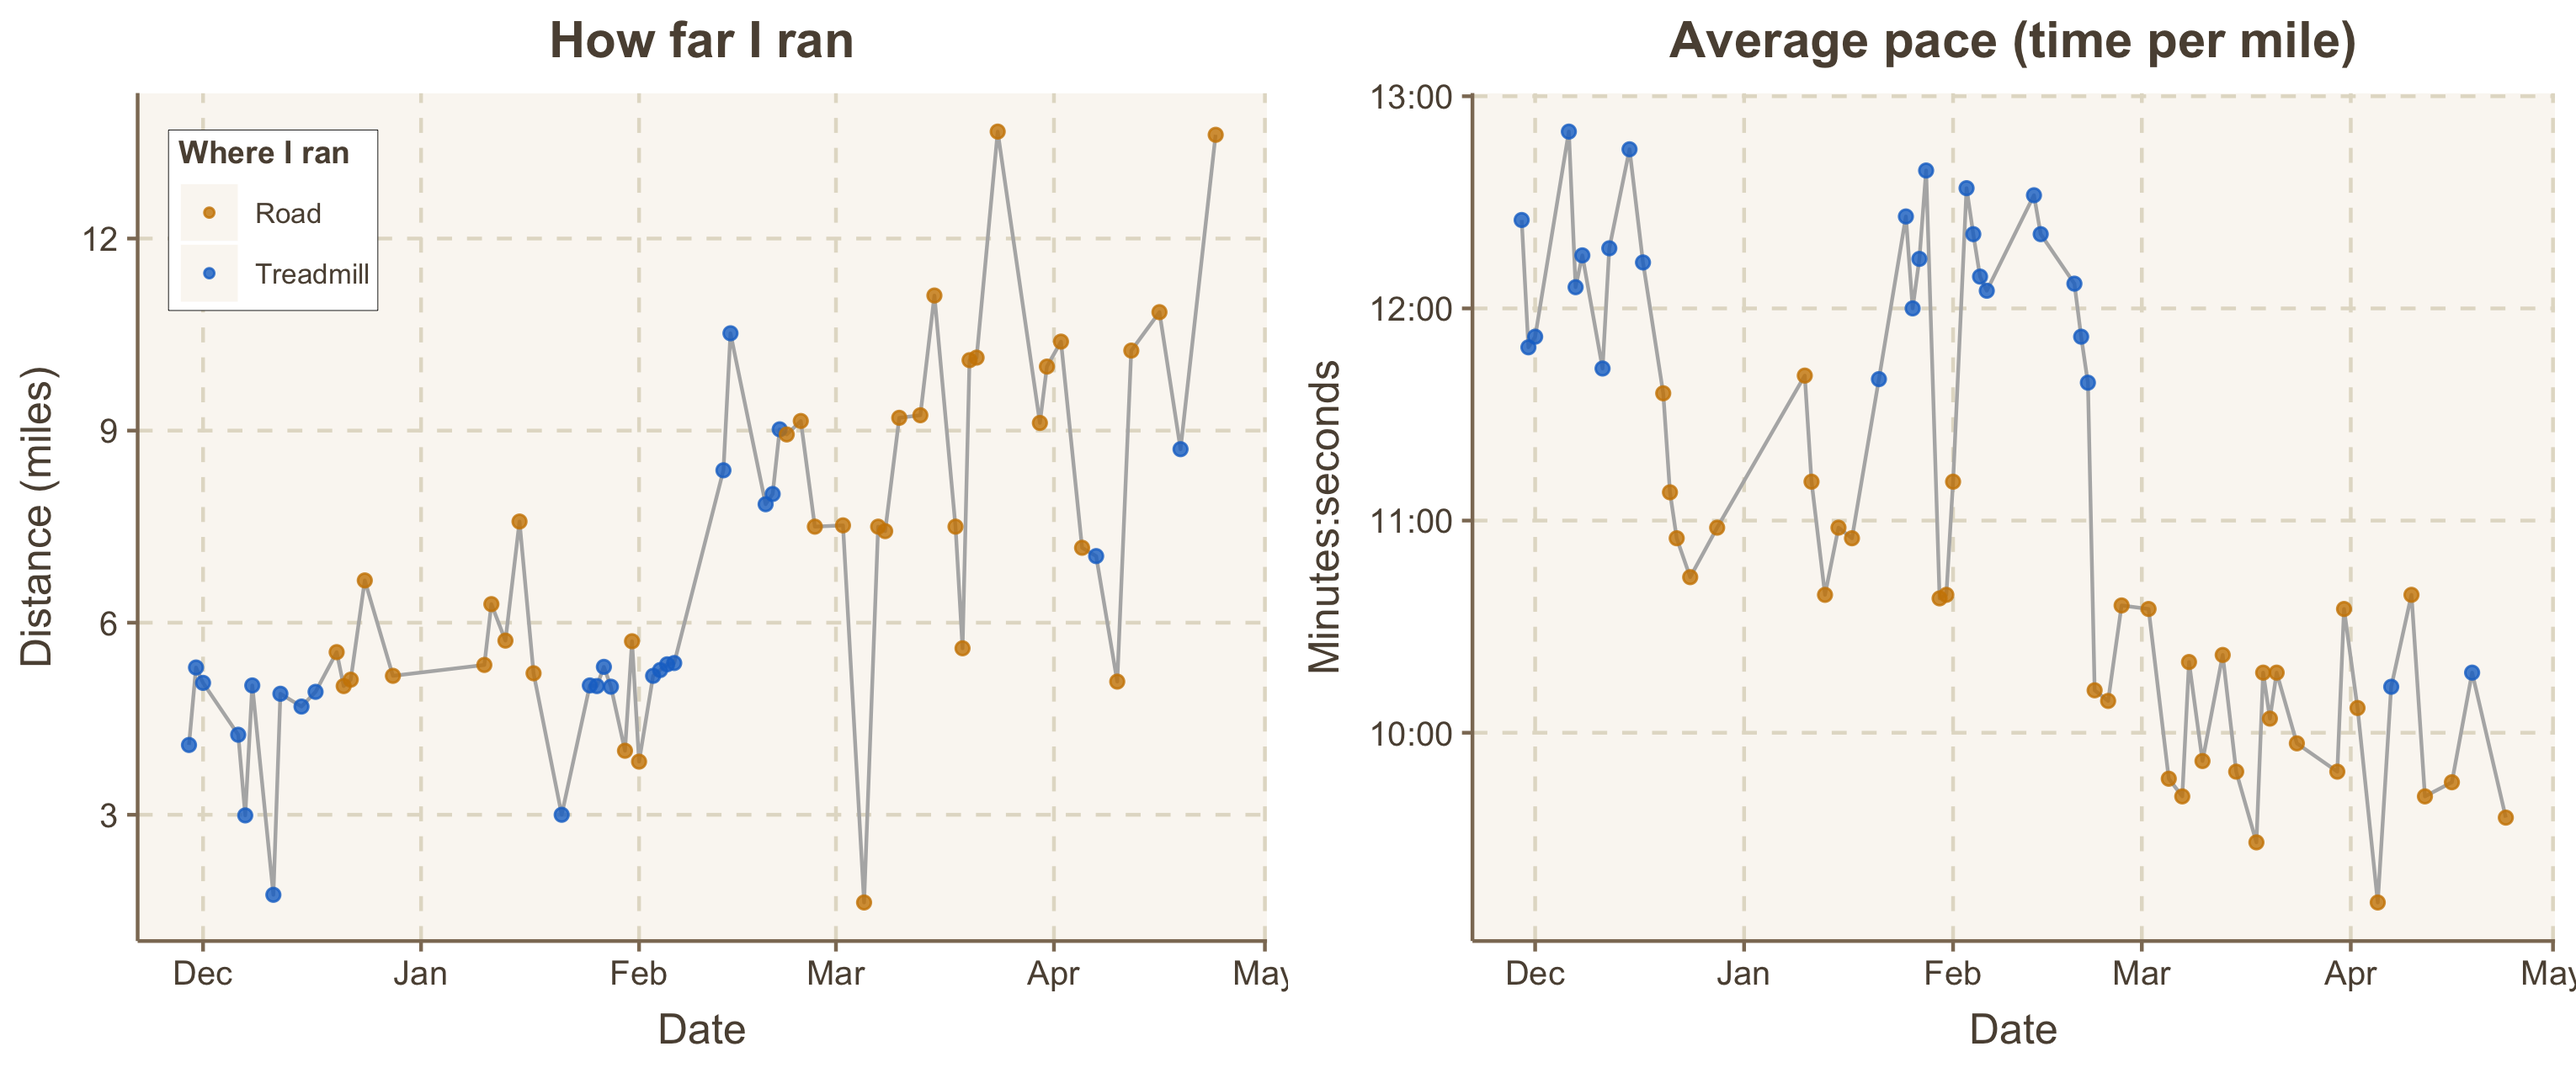
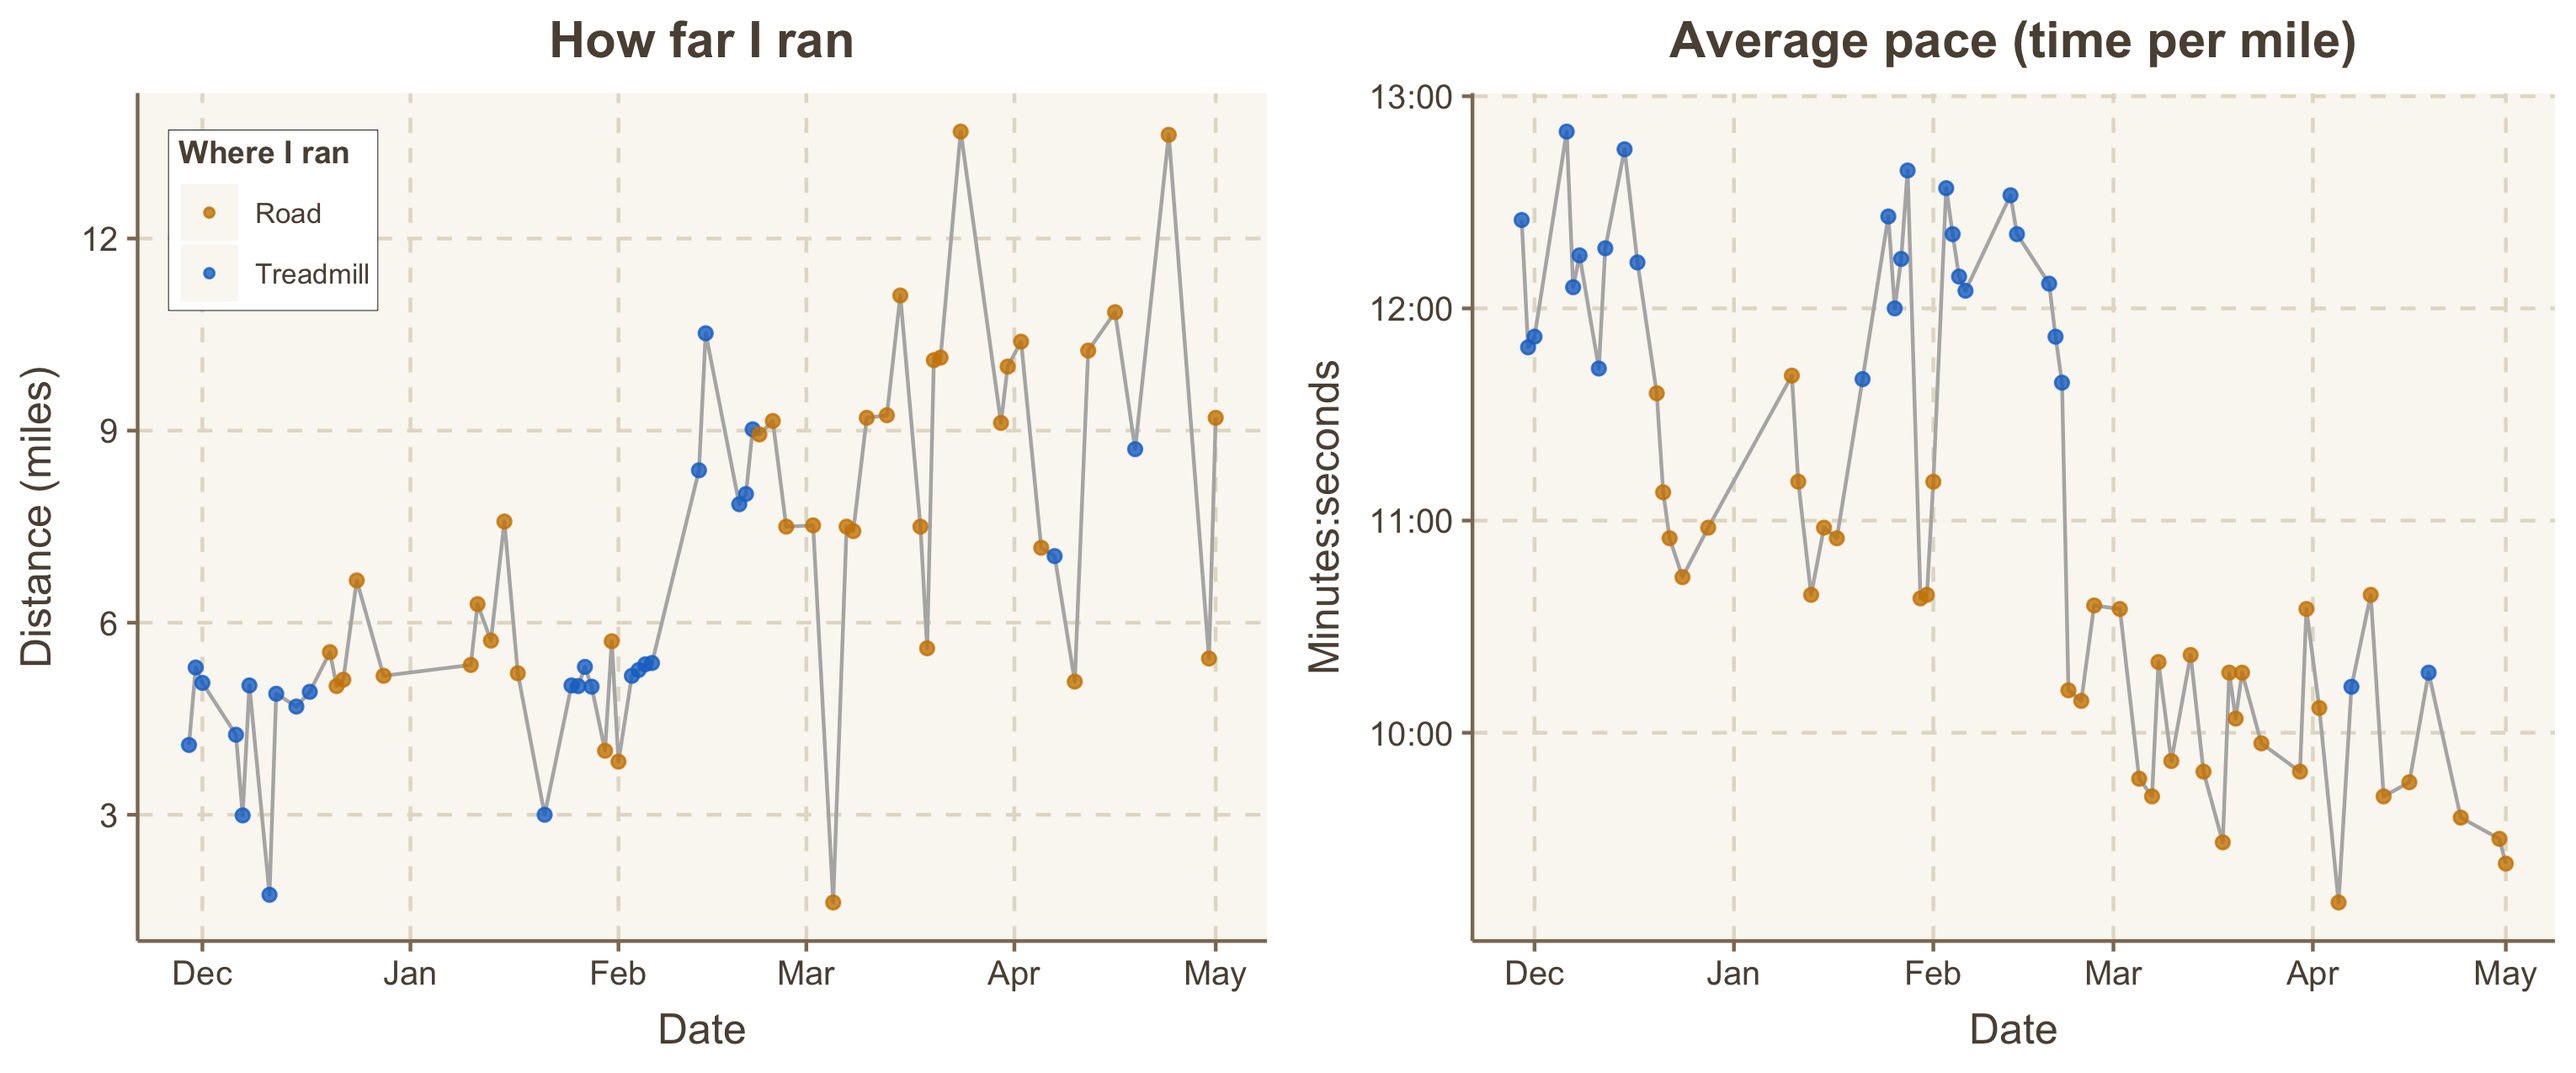
4/30/22 and 5/1/22

diff --git a/README.md b/README.md
@@ -25,7 +25,7 @@ ggarrange(p1, p2, nrow=1)
 sum(runningData$Miles)
 ```
 
-    ## [1] 420.86
+    ## [1] 435.5
 
 Average distance during the last 10 runs:
 
@@ -33,4 +33,4 @@ Average distance during the last 10 runs:
 mean(tail(runningData$Miles, 10))
 ```
 
-    ## [1] 9.223
+    ## [1] 8.775
